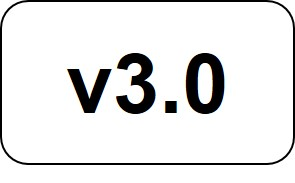
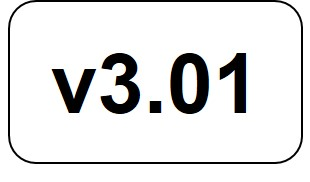
CEP Release v3.01

Changed region(s): [[0.1525, 0.2747, 0.8237, 0.6319], [0.0, 0.0, 1.0, 0.9066]]

diff --git a/cosim/drivers/diag/cepSrotTest.cc b/cosim/drivers/diag/cepSrotTest.cc
@@ -59,95 +59,97 @@ int parse_message_status(uint8_t message_status, int verbose) {
     case LLKI_STATUS_GOOD                 :
       if (verbose) {
         LOGI("\n");
-        LOGI("cepSrotTest_runTest: Good message received!\n");
+        LOGI("parse_message_status: Good message received!\n");
         LOGI("\n");
       }
       break;
     case LLKI_STATUS_KEY_PRESENT            :
       LOGI("\n");
-      LOGI("cepSrotTest_runTest: LLKI-KL Key Present\n");
+      LOGI("parse_message_status: LLKI-KL Key Present\n");
       LOGI("\n");
-      return 0;
       break;
     case LLKI_STATUS_KEY_NOT_PRESENT        :
       LOGI("\n");
-      LOGI("cepSrotTest_runTest: LLKI-KL Key Not Present\n");
+      LOGI("parse_message_status: LLKI-KL Key Not Present\n");
       LOGI("\n");
       return 0;
       break;
     case LLKI_STATUS_BAD_MSG_ID             :
       LOGE("\n");
-      LOGE("cepSrotTest_runTest: Bad message ID\n");
+      LOGE("parse_message_status: Bad message ID\n");
       LOGE("\n");
       return 1;
       break;
     case LLKI_STATUS_BAD_MSG_LEN            :
       LOGE("\n");
-      LOGE("cepSrotTest_runTest: Bad message length\n");
+      LOGE("parse_message_status: Bad message length\n");
       LOGE("\n");
       return 1;
       break;
     case LLKI_STATUS_KEY_INDEX_EXCEED   :
       LOGE("\n");
-      LOGE("cepSrotTest_runTest: Key Index exceeds allowable bounds\n");
+      LOGE("parse_message_status: Key Index exceeds allowable bounds\n");
       LOGE("\n");
       return 1;
       break;
     case LLKI_STATUS_KEY_INDEX_INVALID  :
       LOGE("\n");
-      LOGE("cepSrotTest_runTest: Referenced Key Index is not valid\n");
+      LOGE("parse_message_status: Referenced Key Index is not valid\n");
       LOGE("\n");
       return 1;
       break;
     case LLKI_STATUS_BAD_POINTER_PAIR       :
       LOGE("\n");
-      LOGE("cepSrotTest_runTest: Referenced Key Index pointer pair is not valid\n");
+      LOGE("parse_message_status: Referenced Key Index pointer pair is not valid\n");
       LOGE("\n");
       return 1;
       break;
     case LLKI_STATUS_BAD_CORE_INDEX         :
       LOGE("\n");
-      LOGE("cepSrotTest_runTest: Referenced Key Index specifies an out of bounds core index\n");
+      LOGE("parse_message_status: Referenced Key Index specifies an out of bounds core index\n");
       LOGE("\n");
       return 1;
       break;
     case LLKI_STATUS_KL_REQ_BAD_MSG_ID     :
       LOGE("\n");
-      LOGE("cepSrotTest_runTest: LLKI-KL Request Bad Message ID\n");
+      LOGE("parse_message_status: LLKI-KL Request Bad Message ID\n");
       LOGE("\n");
       return 1;
       break;
     case LLKI_STATUS_KL_REQ_BAD_MSG_LEN     :
       LOGE("\n");
-      LOGE("cepSrotTest_runTest: LLKI-KL Request Bad Message Length\n");
+      LOGE("parse_message_status: LLKI-KL Request Bad Message Length\n");
       LOGE("\n");
       return 1;
       break;
     case LLKI_STATUS_KL_RESP_BAD_MSG_ID     :
       LOGE("\n");
-      LOGE("cepSrotTest_runTest: LLKI-KL Response Bad Message ID\n");
+      LOGE("parse_message_status: LLKI-KL Response Bad Message ID\n");
       LOGE("\n");
       return 1;
       break;
     case LLKI_STATUS_KL_TILELINK_ERROR      :
       LOGE("\n");
-      LOGE("cepSrotTest_runTest: LLKI-KL Tilelink Error\n");
+      LOGE("parse_message_status: LLKI-KL Tilelink Error\n");
       LOGE("\n");
       return 1;
       break;
     case LLKI_STATUS_UNKNOWN_ERROR            :
       LOGE("\n");
-      LOGE("cepSrotTest_runTest: Unknown Error\n");
+      LOGE("parse_message_status: Unknown Error\n");
       LOGE("\n");
       return 1;
       break;
     default                                 :
       LOGE("\n");
-      LOGE("cepSrotTest_runTest: Unknown message error\n");
+      LOGE("parse_message_status: Unknown message error\n");
       LOGE("\n");
       return 1;
       break;
   } // end switch (my_message)
+
+  // Status is good
+  return 0;
 
 } // end parse_message_status
 

diff --git a/README.md b/README.md
@@ -472,6 +472,9 @@ v3.0 - (18 December 2020)
 * Initial LLKI release with Surrogate Root of Trust
 * AES core replaced with LLKI-enabled AES core, all other cores remain unchanged
 
+v3.01 - (19 December 2020)
+* Removed used flash model reference in cep_tb.v
+
 ## Licensing
 The CEP been developed with a goal of using components with non-viral, open source licensing whenever possible.  When not feasible (such as Linux), pointers to reference repositories are given using the [get_external_dependencies.sh](./get_external_dependencies.sh) script.  
 
